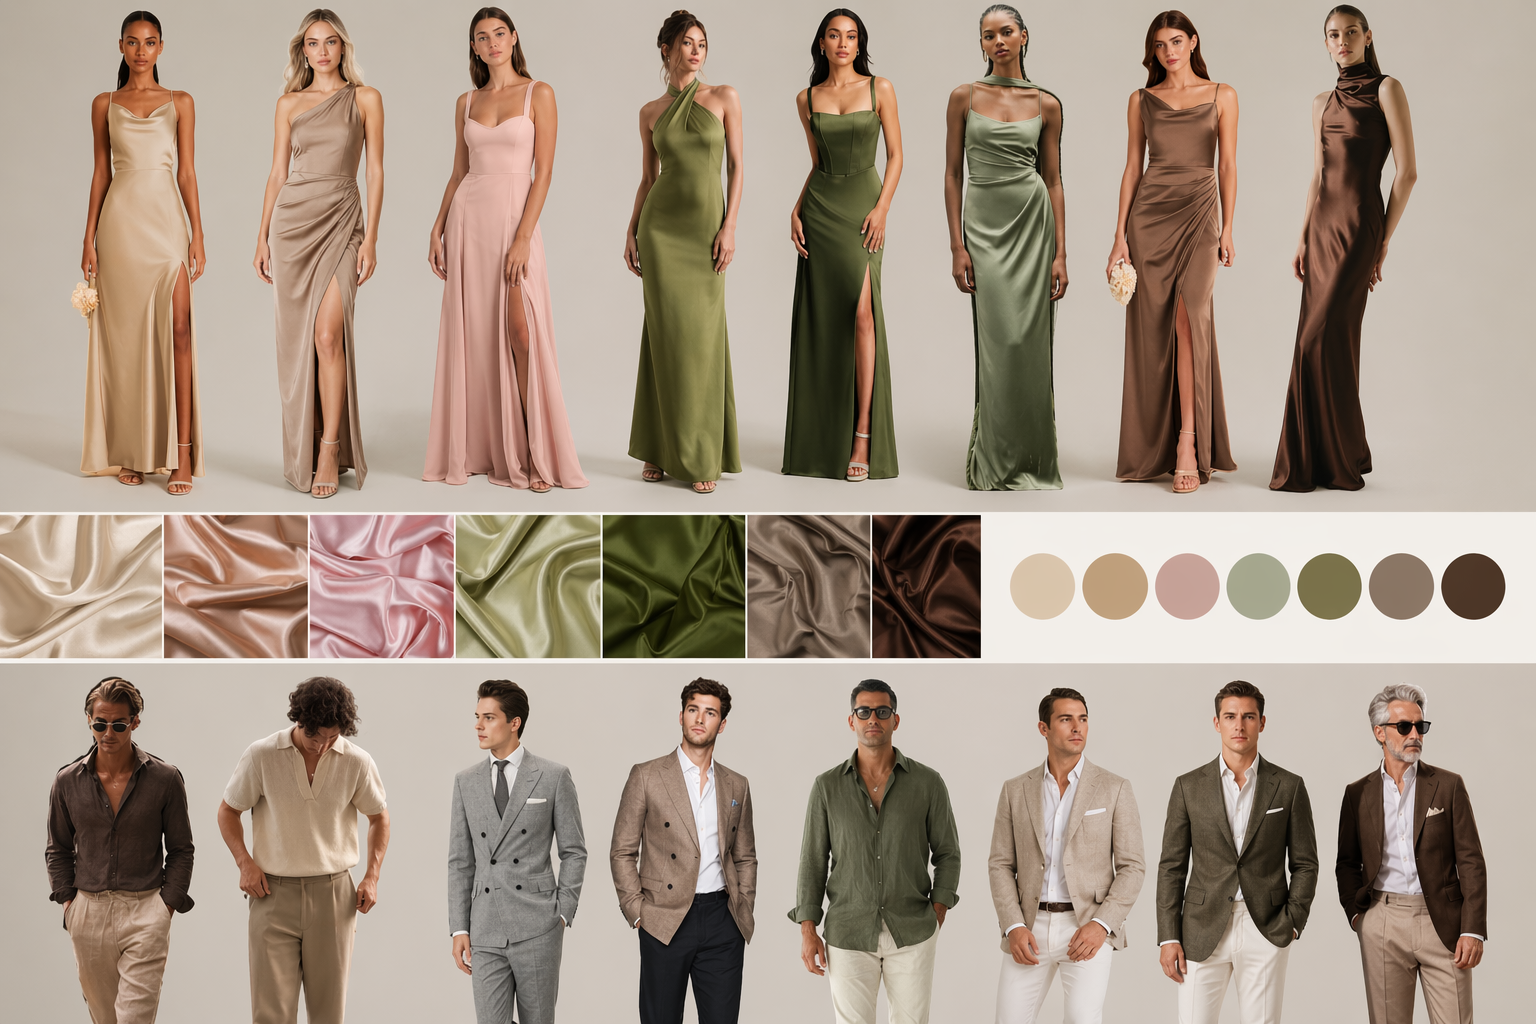
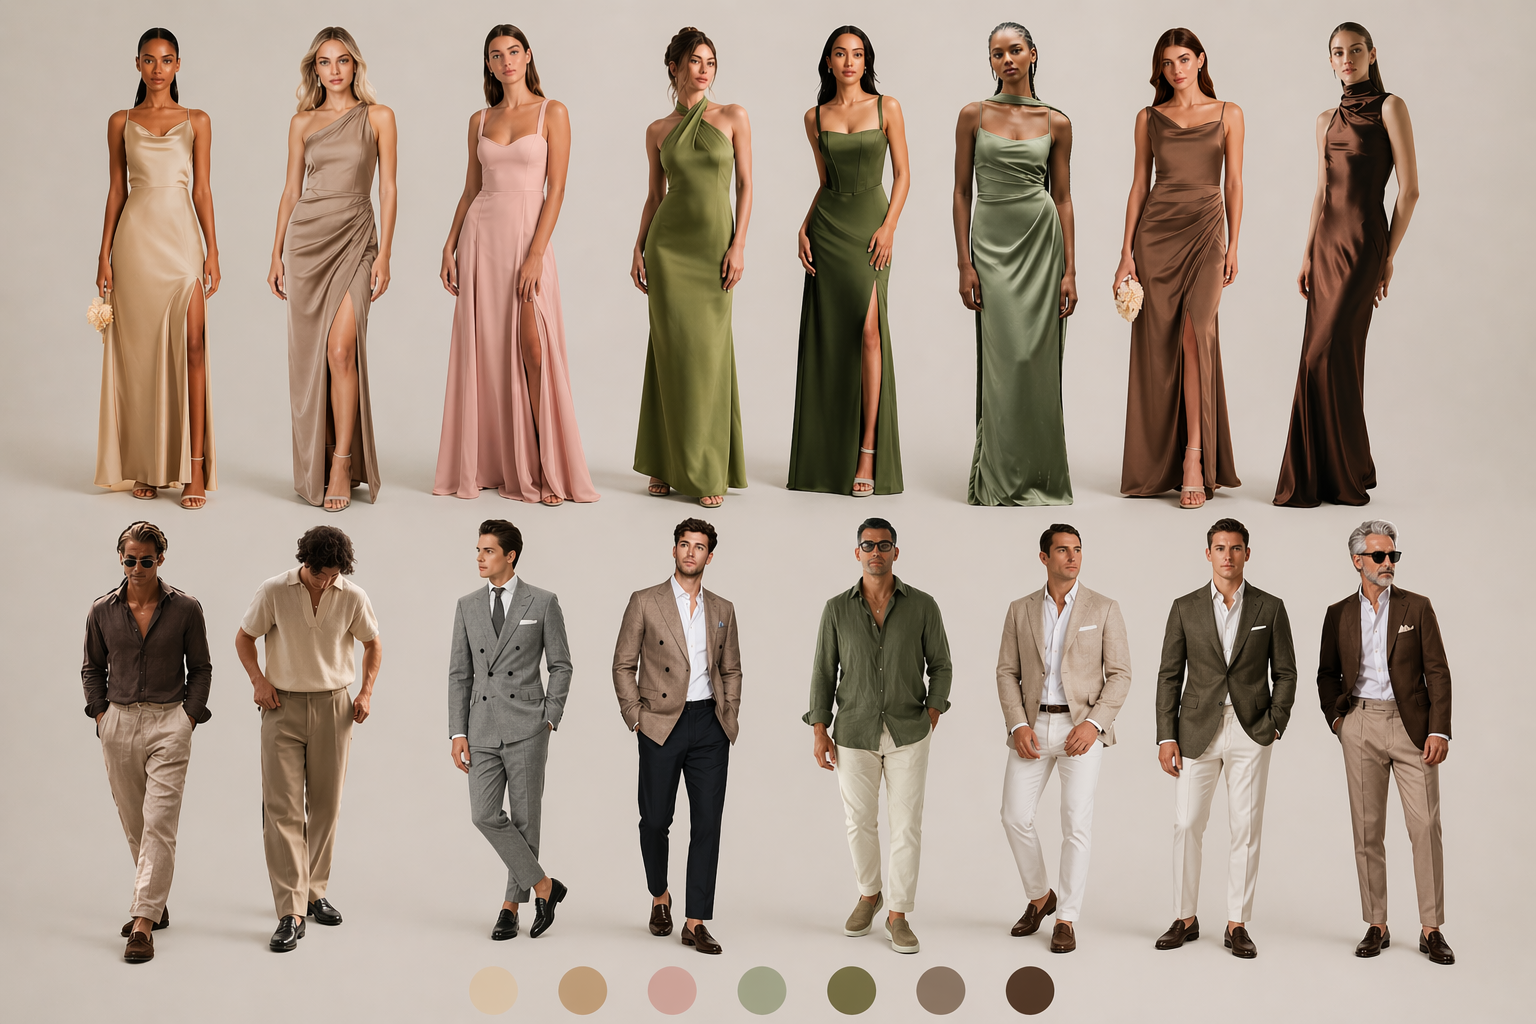
Update: Refined dress code size and inverted shader animation

diff --git a/style.css b/style.css
@@ -900,7 +900,7 @@ input, button, textarea, select, label {
 }
 .dc-reference {
   width: 100%;
-  max-width: none;
+  max-width: 600px;
   margin: 32px auto 0;
   padding: 0;
 }